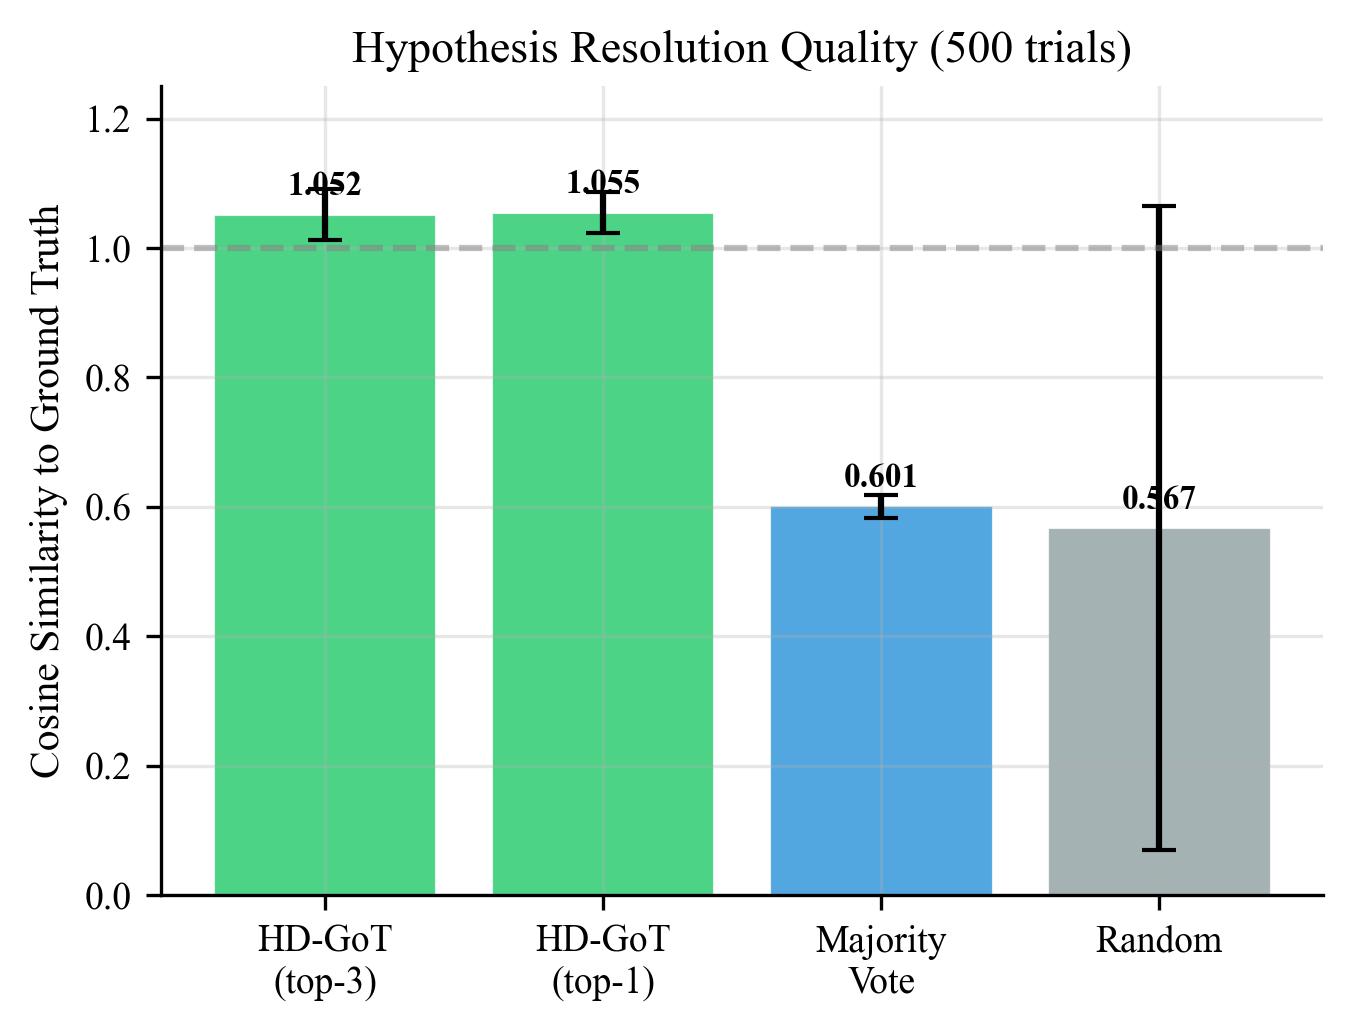
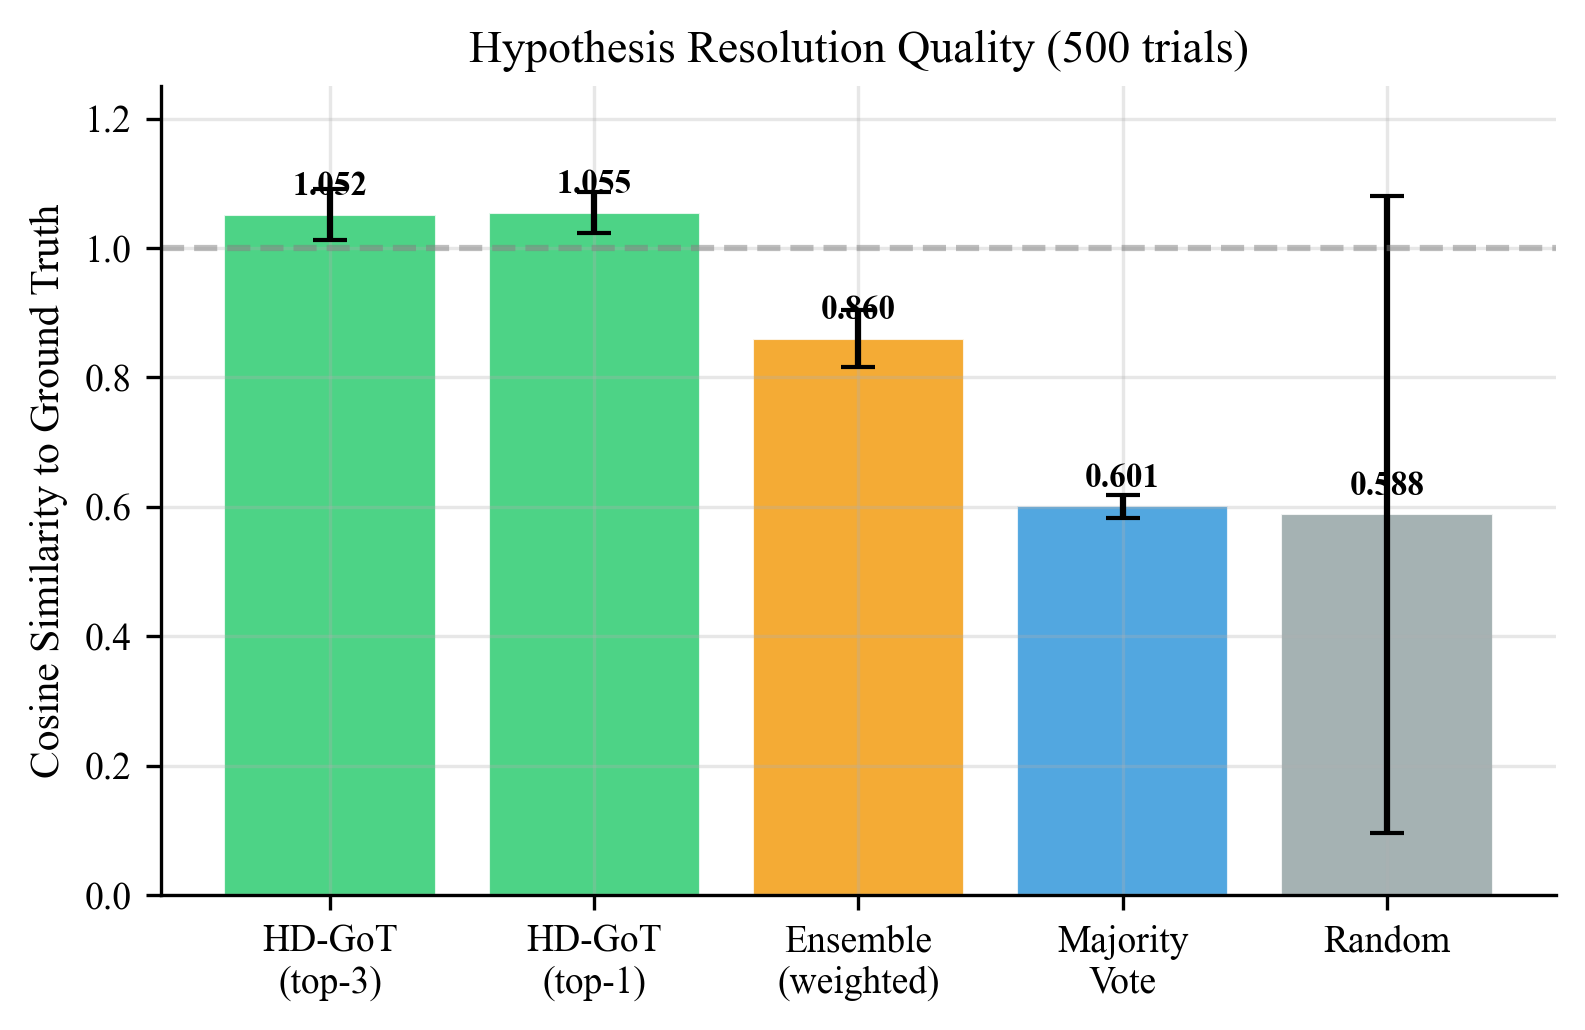
fig: add ensemble (weighted) baseline to HD-GoT comparison chart
Now 5 methods: HD-GoT top-3, HD-GoT top-1, Ensemble (weighted avg),
Majority vote, Random. The ensemble baseline uses cosine-sim-weighted
averaging — the standard HMMEnsemble approach. HD-GoT's spike diffusion
centrality should outperform simple likelihood weighting.

diff --git a/notebooks/neurips_figures.py b/notebooks/neurips_figures.py
@@ -86,9 +86,28 @@ def fig1_hdgot_comparison():
     codebook = bc.codebook_discrete(10, seed=42)
     N_TRIALS = 500
 
+    # HMM ensemble for likelihood-weighted baseline
+    small_cb = bc.codebook_discrete(5, seed=42)
+
+    def ensemble_resolve(candidates):
+        """Likelihood-weighted averaging (standard HMMEnsemble approach)."""
+        # Simulate: weight each candidate by how "central" it is
+        # (cosine sim to mean = proxy for likelihood)
+        mean_vec = np.mean(candidates, axis=0)
+        weights = np.array([float(bc.similarity(c, mean_vec)) for c in candidates])
+        weights = np.clip(weights, 0, None)
+        total = weights.sum()
+        if total < 1e-8:
+            weights = np.ones(len(candidates)) / len(candidates)
+        else:
+            weights = weights / total
+        result = sum(w * c for w, c in zip(weights, candidates))
+        return result.astype(np.float32)
+
     methods = {
         "HD-GoT\n(top-3)": lambda c: hd_got_resolve(c, bc, top_k=3),
         "HD-GoT\n(top-1)": lambda c: hd_got_resolve(c, bc, top_k=1),
+        "Ensemble\n(weighted)": ensemble_resolve,
         "Majority\nVote": lambda c: np.mean(c, axis=0).astype(np.float32),
         "Random": lambda c: c[np.random.randint(len(c))],
     }
@@ -106,11 +125,11 @@ def fig1_hdgot_comparison():
             sims.append(float(bc.similarity(result, gt)))
         results[name] = (np.mean(sims), np.std(sims))
 
-    fig, ax = plt.subplots(figsize=(5, 3.5))
+    fig, ax = plt.subplots(figsize=(6, 3.5))
     names = list(results.keys())
     means = [results[n][0] for n in names]
     stds = [results[n][1] for n in names]
-    colors = [COLORS["cubemind"], COLORS["cubemind"],
+    colors = [COLORS["cubemind"], COLORS["cubemind"], COLORS["oxytocin"],
               COLORS["baseline"], COLORS["random"]]
 
     bars = ax.bar(names, means, yerr=stds, capsize=4, color=colors,
